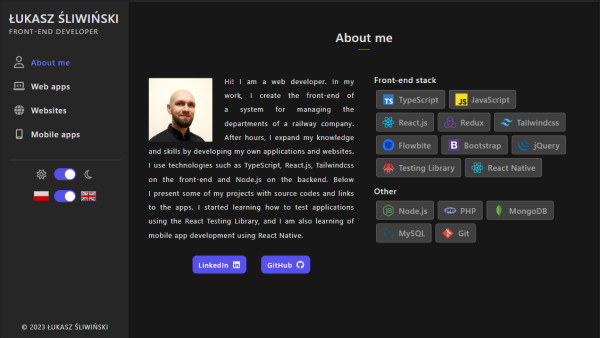
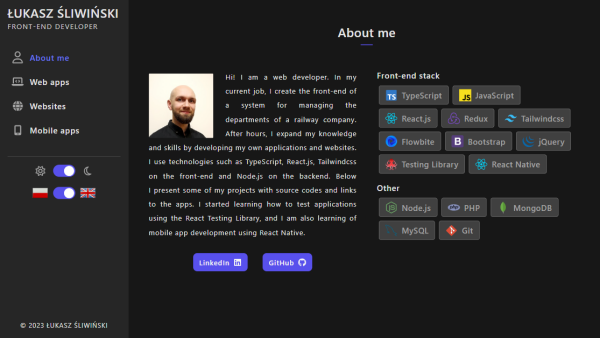
data: update about data

diff --git a/frontend/src/config/lang.config.ts b/frontend/src/config/lang.config.ts
@@ -12,7 +12,7 @@ i18n.use(initReactI18next).init({
         mobileapps: 'Mobile apps',
         stack: 'Front-end stack',
         other: 'Other',
-        bio: `Hi! I am a\xa0web developer. In my work, I\xa0create the front-end of a\xa0system for managing the departments of a\xa0railway company.
+        bio: `Hi! I am a\xa0web developer. In my current job, I\xa0create the front-end of a\xa0system for managing the departments of a\xa0railway company.
           After hours, I\xa0expand my knowledge and skills by developing my own applications and websites.
           I\xa0use technologies such as TypeScript, React.js, Tailwindcss on the front-end and Node.js on the backend.
           Below I\xa0present some of my projects with source codes and links to the apps.
